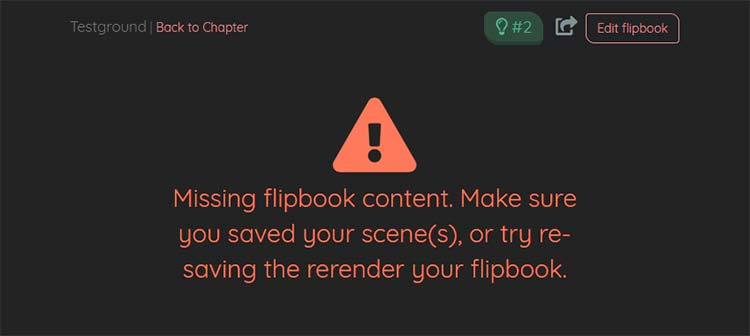
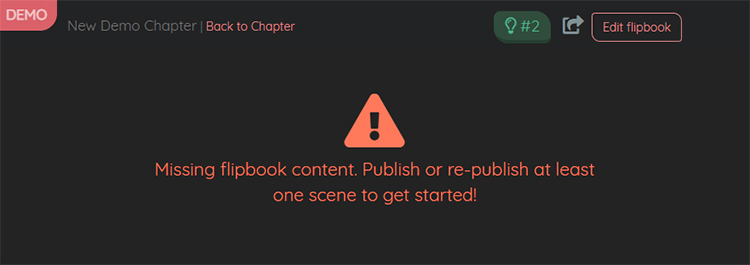
Update tutorial to match the updated UI

Changed region(s): [[0.184, 0.2717, 0.7973, 0.8453], [0.644, 0.0302, 0.92, 0.1811], [0.0, 0.0, 0.3987, 0.1208]]

diff --git a/frontend/src/components/demo/Demo.js b/frontend/src/components/demo/Demo.js
@@ -68,7 +68,7 @@ const getJSXDemoMessage = (msgIndex, staticroot) => {
           alt="You have not rendered any flipbook."
         />
         <p>
-          If you did not <strong>render your flipbook</strong>, it cannot play anything!
+          Since this is your first time, you will have to <strong>render your flipbook</strong> first before seeing it.
         </p>
       </div>
       ,
@@ -79,7 +79,7 @@ const getJSXDemoMessage = (msgIndex, staticroot) => {
           alt="After viewing, you can see flipbook details and make any changes in the edit mode."
         />
         <p>
-          Go to the edit mode to bake yuor first flipbook.
+          Go to the edit mode to bake your first flipbook.
         </p>
       </div>
       ,

diff --git a/flipbooks/views_demo.py b/flipbooks/views_demo.py
@@ -83,13 +83,11 @@ def copy_demo_chapter(request, *args, **kwargs):
             sc.name = "Demo " + sc_original.name
             sc.chapter = new_demo_chapter
             sc.movie_url = ''
-            sc.children_li = sc_original.children_li
             sc.save()
             print("[SCENE] - new pk = {}".format(sc.pk))
             for st in sc_original.strip_set.all():
                 st_original = Strip.objects.get(pk=st.pk) # for retireving children
                 st.pk = None # will have no children
-                st.children_li = st_original.children_li
                 st.scene = sc
                 st.save()
                 print("[STRIP] --- new pk = {}".format(st.pk))
